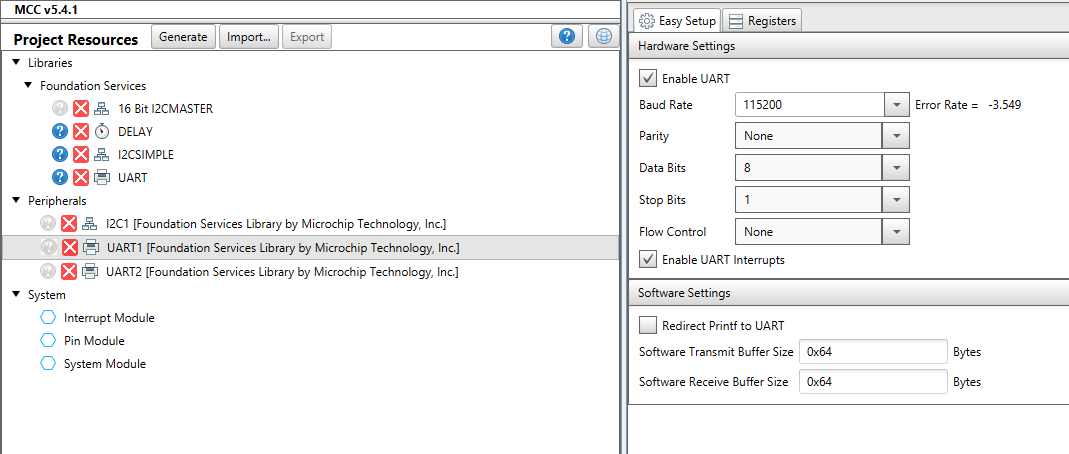
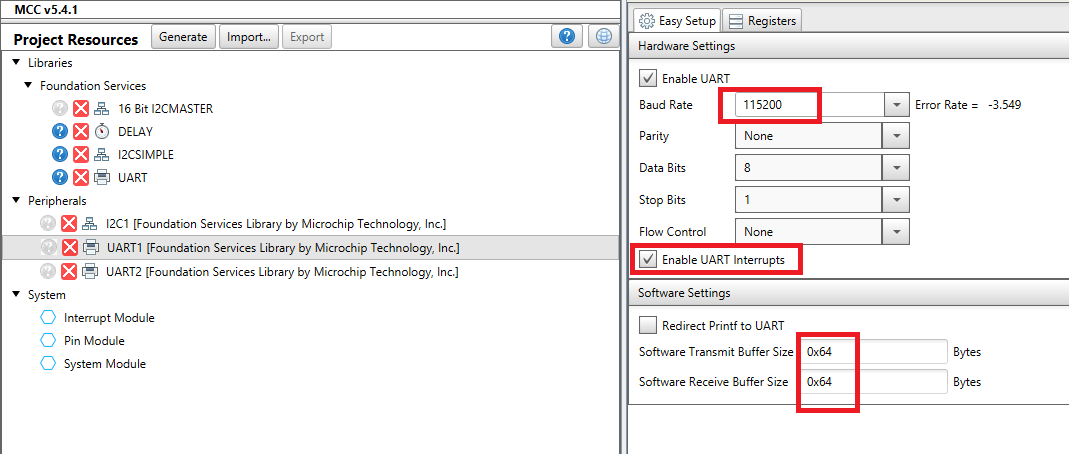
README.md

Changed region(s): [[0.5865, 0.5242, 0.7717, 0.6167], [0.7409, 0.7093, 0.8026, 0.9251], [0.6483, 0.185, 0.7717, 0.2775]]

diff --git a/README.md b/README.md
@@ -1,4 +1,4 @@
-# RNBD451 BLE TEMPERATURE SENSOR
+# RNBD451 WITH PIC24FJ64GU205 AS BLE TEMPERATURE SENSOR
 
 <img src="docs/IoT-Made-Easy-Logo.png" width=100>
 
@@ -33,7 +33,7 @@ Checkout the <a href="https://microchipsupport.force.com/s/" target="_blank">Tec
 
 ### Getting started with RNBD451 Plug and Temperature Sensor
 
-This application demonstrates how to add the RNBD451 with PIC24 to implement a BLE temperature sensor using TEMP&HUM 13 CLICK. The RN commands are sent from the PIC24FJ64GU205 CURIOSITY NANO BOARD to establish the Temperature sensor application, which can be viewed in the MBD application.
+This application shows how to use the RNBD451 along with the PIC24FJ64GU205 to develop a BLE temperature sensor application with TEMP&HUM 13 CLICK. The PIC24FJ64GU205 Curiosity Nano Development Board sends RN instructions to establish the Temperature sensor application, which can be monitored in the Microchip Bluetooth Data application.
 
 ![](docs/app.png)
 
@@ -48,7 +48,7 @@ This application demonstrates how to add the RNBD451 with PIC24 to implement a B
 
 ## 3. Hardware Setup<a name="step3">
 
-- Connect the TEMP&HUM 13 CLICK Board to the Mikro Bus 1 and RNBD451 Add-on Board to the Mikro Bus 2 and connect the PIC24FJ64GU205 CURIOSITY NANO DEVELOPMENT BOARD as shown below.
+- Connect the TEMP&HUM 13 CLICK Board to the Mikro Bus 1, RNBD451 Add-on Board to the Mikro Bus 2 and connect the PIC24FJ64GU205 CURIOSITY NANO DEVELOPMENT BOARD as shown below.
 
 ![](docs/hardware.png)
 
@@ -79,53 +79,99 @@ This application demonstrates how to add the RNBD451 with PIC24 to implement a B
 
 **Step 1** - Connect the PIC24FJ64GU205 CURIOSITY NANO DEVELOPMENT BOARD to the device/system using a micro-USB cable.
 
+- Follow the steps for creating new project for PIC24FJ64GU205.
+
+![](docs/np1.png)
+
+![](docs/np2.png)
+
+![](docs/np3.png)
+
+![](docs/np4.png)
+
 **Step 2** - Open the MPLAB Code Configurator and follow the steps as shown below.
+
+- Choose MCC Classic while opening the MCC Code Configurator.
 
 ![](docs/project_resources.png)
 
-**Step 3** - In Device Resources, go to Libraries->Foundation Services->I2CSIMPLE and add the I2CSIMPLE component to configure as shown below.
+**Step 3** - In Device Resources, go to Libraries->Foundation Services->I2CSIMPLE and add the I2CSIMPLE component to configure.
 
 ![](docs/I2CSIMPLE.png)
 
-**Step 4** - In Project Resources, select the 16 bit I2CMASTER component from Foundation Services and configure as shown below.
+**Step 4** - In Project Resources, select the 16 bit I2CMASTER component from Foundation Services and configure.
 
 ![](docs/16bitI2CMASTER.png)
 
-**Step 5** - In Project Resources, select the I2C1 component from Peripherals and configure as shown below.
+**Step 5** - In Project Resources, select the I2C1 component from Peripherals and configure.
 
 ![](docs/I2C1.png)
 
-**Step 6** - In Device Resources, go to Libraries->Foundation Services->DELAY and add the DELAY component to configure as shown below.
+**Step 6** - In Device Resources, go to Libraries->Foundation Services->DELAY and add the DELAY component to configure.
 
 ![](docs/delay.png)
 
-**Step 7** - In Device Resources, go to Libraries->Foundation Services->UART and add the UART component to configure as shown below.
+**Step 7** - In Device Resources, go to Libraries->Foundation Services->UART and add the UART component to configure.
 
 ![](docs/uart.png)
 
-**Step 8** - In Project Resources, select the UART1 component from Peripherals and configure as shown below.
+**Step 8** - In Project Resources, select the UART1 component from Peripherals and configure.
 
 ![](docs/UART1.png)
 
-**Step 9** - In Project Resources, select the UART2 component from Peripherals and configure as shown below.
+**Step 9** - In Project Resources, select the UART2 component from Peripherals and configure.
 
 ![](docs/UART2.png)
 
-**Step 10** - In Project Resources, select the Pin Module component from Systems and configure as shown below.
+**Step 10** - In Project Resources, select the Pin Module component from Systems and configure.
 
-![](docs/pinmodule.png)
-
-- Refer the PIN Manager : Grid View and configure as shown below.
+- Refer the PIN Manager : Grid View and configure.
 
 ![](docs/gridview.png)
+
+- Refer the pin module and configure.
+
+![](docs/pinmodule.png)
 
 **Step 11** - [Generate](https://onlinedocs.microchip.com/pr/GUID-A5330D3A-9F51-4A26-B71D-8503A493DF9C-en-US-1/index.html?GUID-9C28F407-4879-4174-9963-2CF34161398E) the code.
 
 **Step 12** - Change the following Code as mentioned below.
 
-- Download this repository and add the Header and Source files from "app_tempHum13" & "rnbd" folders from drivers folder.
+- From the unzipped folder of this repository copy the folder "app_tempHum13" and "rnbd" from drivers to the folder firmware/your_project.x under your MPLAB application project and add the Header (app_temphum13.h, rnbd.h, rnbd_interface.h) and Source file (app_temphum13.c, rnbd.c, rnbd_interface.c).
 
 ![](docs/DRIVERS.png)
+
+- In the project explorer, Right click on folder Header Files and add a sub folder "app_tempHum13" and "rnbd" by selecting “Add Existing Items from Folders…”
+
+![](docs/header_add.png)
+
+- Click on “Add Folder…” button.
+
+![](docs/header_add2.png)
+
+- Select the "app_tempHum13" and "rnbd" folder and select “Files of Types” as Header Files then click on “Add” button to add the selected folder.
+
+![](docs/header_add4.png)
+ 
+- The header files gets added to your project.
+
+![](docs/header_add5.png)
+
+- In the project explorer, Right click on folder Source Files and add a sub folder "app_tempHum13" and "rnbd" by selecting “Add Existing Items from Folders…”.
+
+![](docs/source_add.png)
+
+- Click on “Add Folder…” button
+
+![](docs/source_add2.png)
+
+- Select the "app_tempHum13" and "rnbd" folder and select “Files of Types” as Source Files then click on “Add” button to add the selected folder.
+
+![](docs/source_add4.png)
+
+- The source files gets added to your project.
+
+![](docs/source_add5.png)
 
 - Copy the file [main.c](https://github.com/MicrochipTech/RNBD451_BLE_TEMPERATURE_SENSOR/blob/main/firmware/PIC24_RNBD451_TH.X/main.c) and replace it.
 		
@@ -134,6 +180,8 @@ This application demonstrates how to add the RNBD451 with PIC24 to implement a B
 **Step 13** - Clean and build the project. To run the project, select "Make and program device" button.
 	
 **Step 14** - The Application Serial logs can be viewed in [TERA TERM](https://download.cnet.com/Tera-Term/3000-2094_4-75766675.html) COM PORT.
+
+- Baud Rate: 9600 
 
 ![](docs/TERATERM.png)
 	
